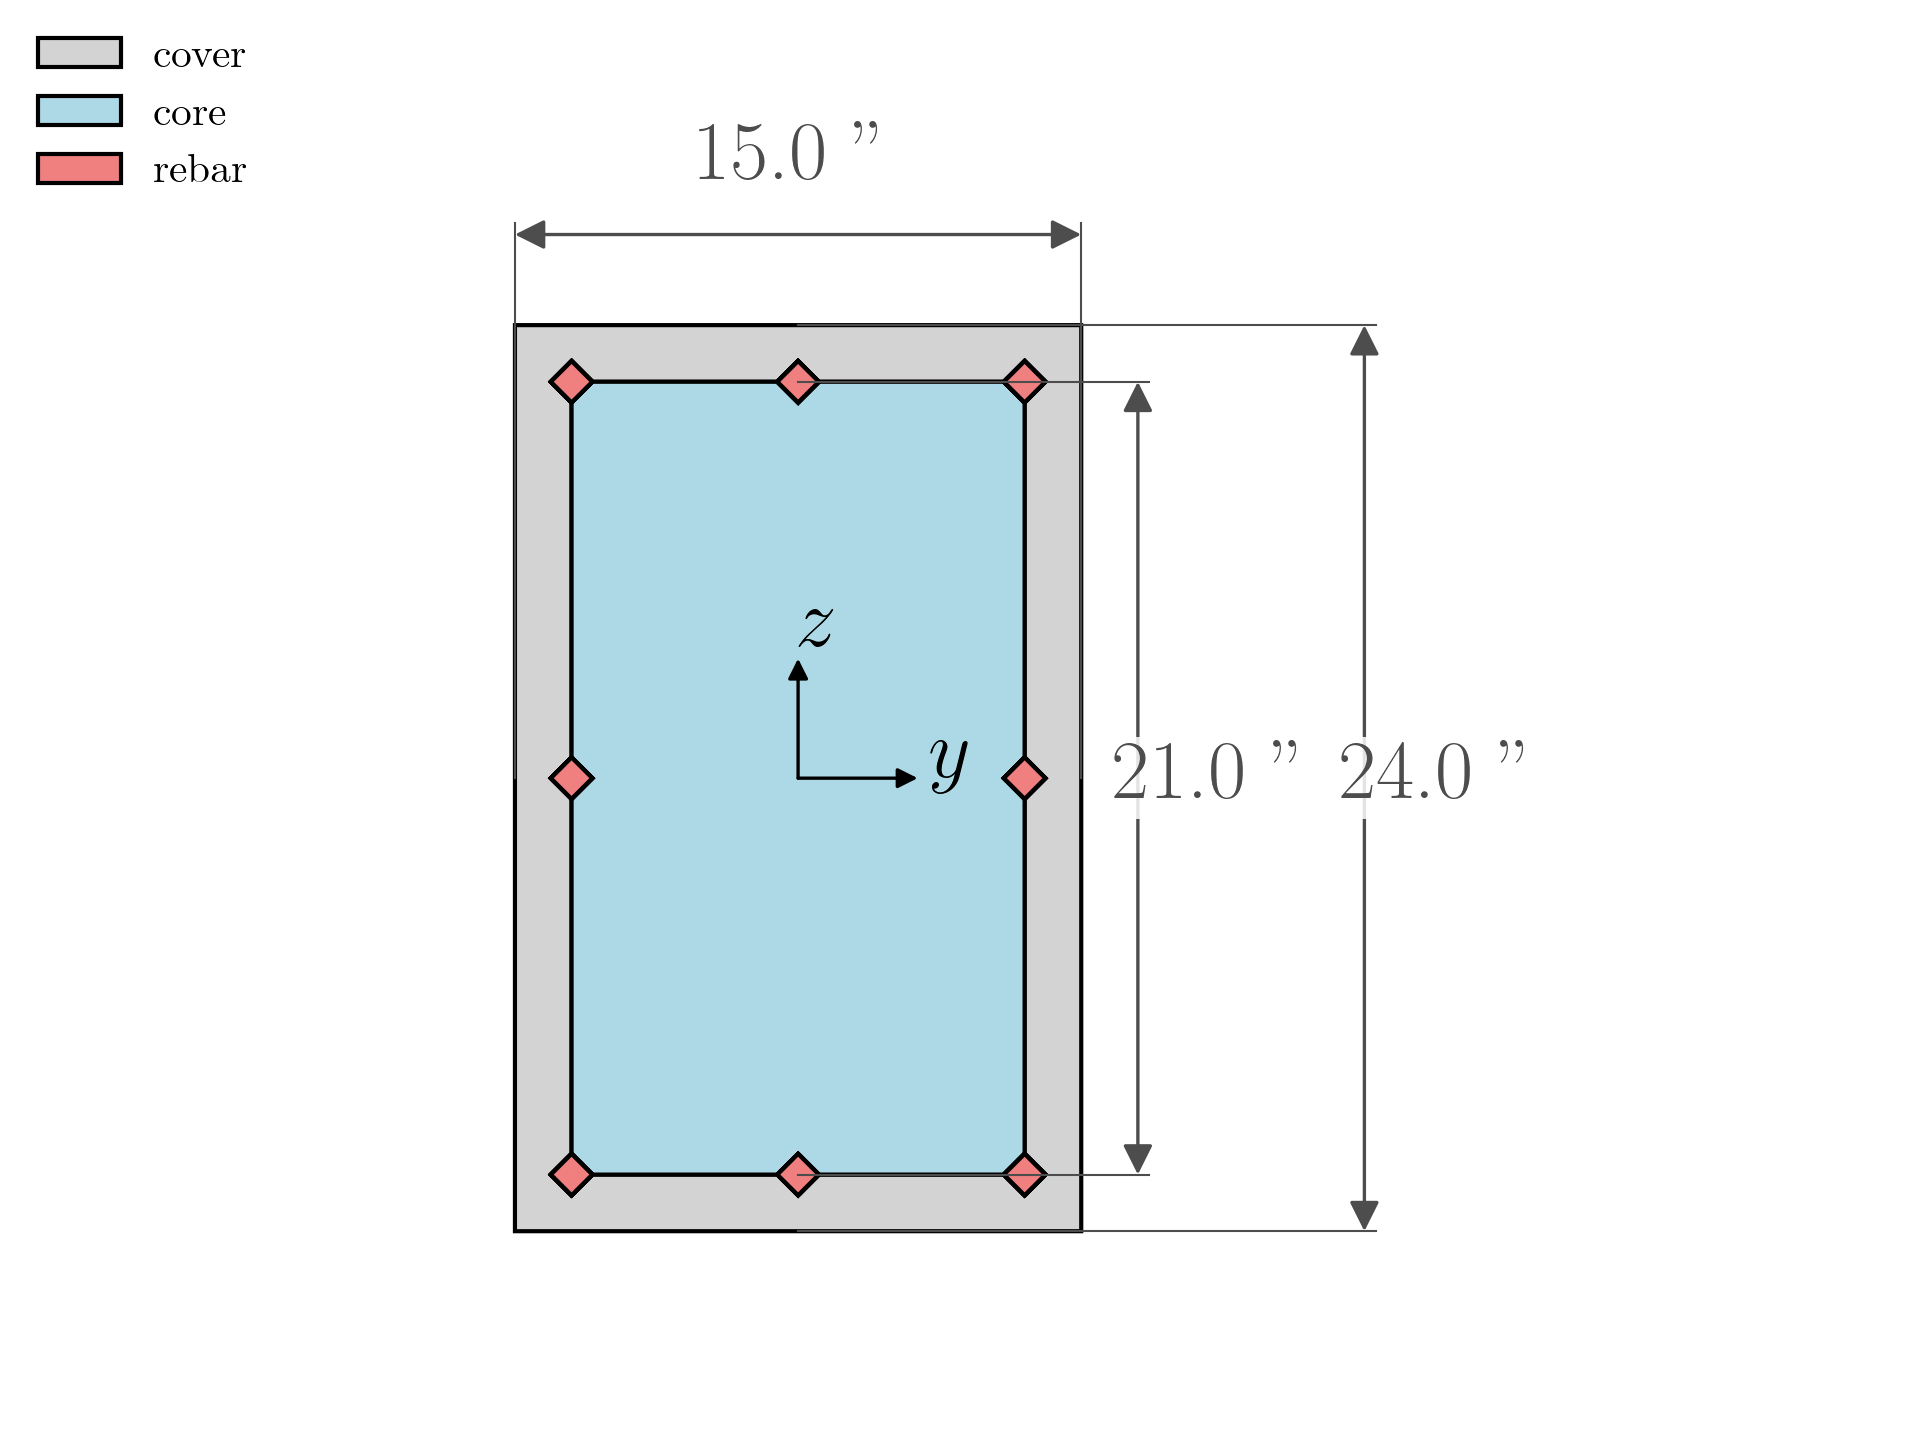
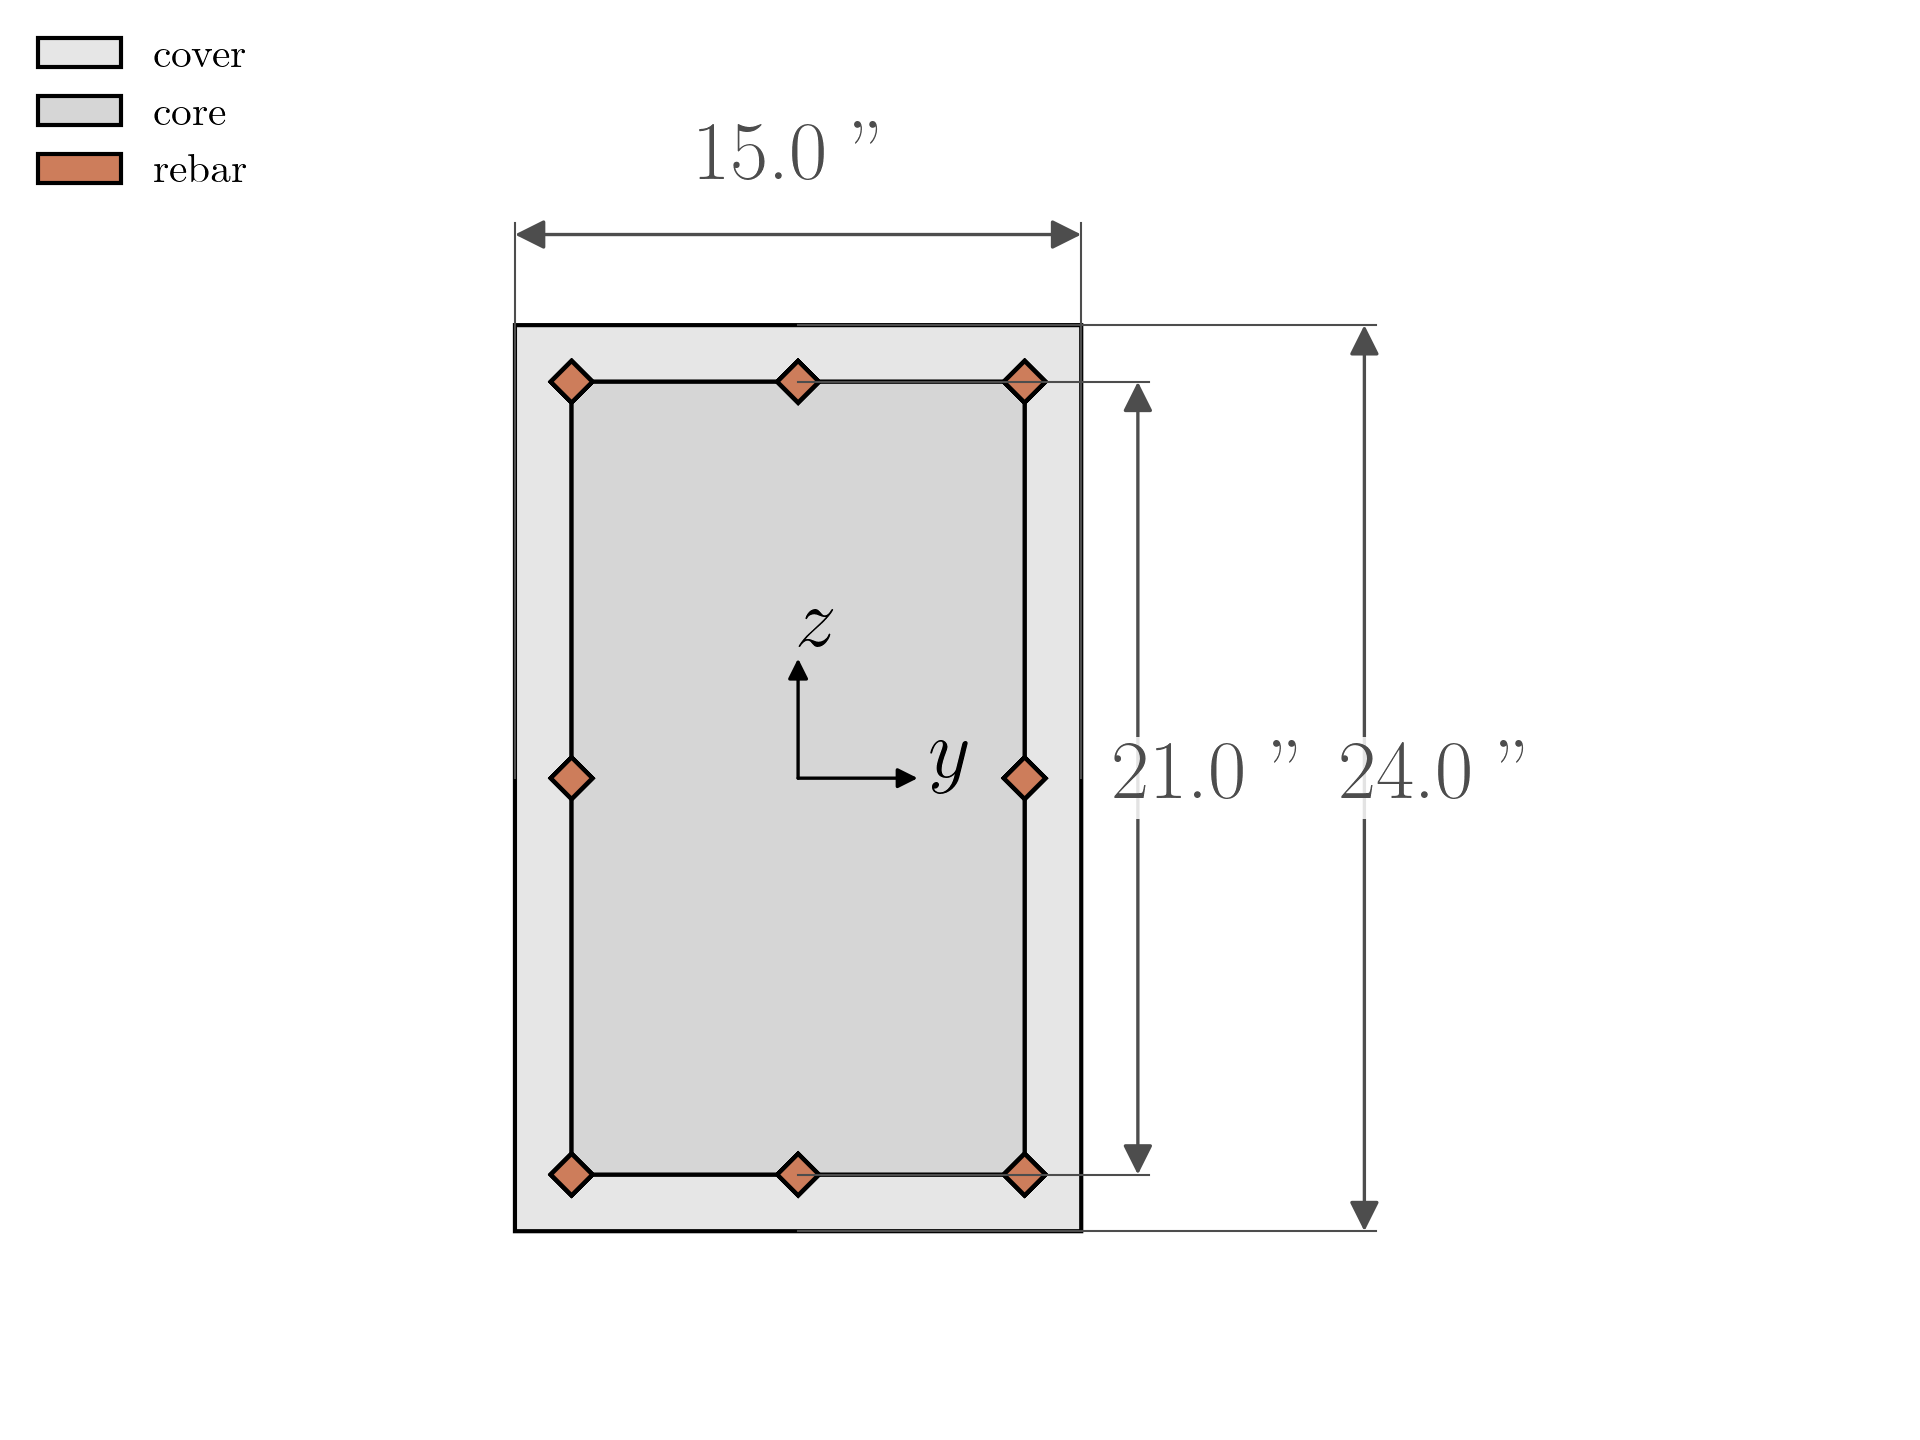
clean examples

Changed region(s): [[0.2812, 0.25, 0.5625, 0.8438], [0.0, 0.0625, 0.0625, 0.125]]

diff --git a/source/user/manual/model/geomTransf/frame/Linear.rst b/source/user/manual/model/geomTransf/frame/Linear.rst
@@ -72,37 +72,10 @@ Joint offsets are specified with respect to the global coordinate system.
 Example
 -------
 
-In the following example *Linear* transformations are defined
+.. ref-gallery::
 
-1. **Tcl Code**
+   examples/frames/frame-0059
 
-   .. code-block:: tcl
-
-	# Element 1 : tag 1 : vecxZ = zaxis
-	geomTransf Linear 1 0 0 -1
-
-	# Element 2 : tag 2 : vecxZ = y axis
-	geomTransf Linear 2 0 1 0
-
-	# If there was a rigid offset at the top of element 1:
-	geomTransf Linear 1 0 0 -1 -jntOffset 0.0 0.0 0.0 0.0 -$Offset 0.0
-
-
-2. **Python Code**
-
-   .. code-block:: python
-   
-	# Element 1, vecxZ = z-axis
-	model.geomTransf("Linear", 1, (0, 0, -1))
-
-	# Element 2, vecxZ = y-axis
-	model.geomTransf("Linear", 2, (0, 1,  0))
-
-	# If there was a rigid offset at the top of element 1: (offset is a variable that the offset value has been stored in)
-	model.geomTransf("Linear", 3, (0, 0, -1), "-jntOffset",0.0, 0.0, 0.0, 0.0, offset, 0.0)
-
-
-A detailed example including joint offsets is provided [here](https://gallery.stairlab.io/examples/frameoffsets/)
 
 References
 ----------

diff --git a/source/user/manual/model/geomTransf/frame/Corotational02.rst b/source/user/manual/model/geomTransf/frame/Corotational02.rst
@@ -50,28 +50,9 @@ The corotational coordinate transformation allows small-strain frame elements to
 Examples
 --------
 
-This example is developed in detail on the examples `site <https://gallery.stairlab.io/examples/framevecxz/>`__.
-In order to cover a wide range of cases, the strong axis of the first column, element `1`, 
-is oriented so as to resist bending *outside* the plane of the portal, but the strong axis of the second column, element `3`, will resist bending *inside* the portal plane.
+.. ref-gallery::
 
-
-.. figure:: figures/vecxz.png
-   :align: center
-   :width: 50%
-
-   A portal frame with :math:`X_3` vertical.
-
-
-.. code-block:: Python
-
-   model.node(1, (    0, 0,      0))
-   model.node(2, (width, 0,      0))
-   model.node(3, (width, 0, height))
-   model.node(4, (    0, 0, height))
-
-   model.geomTransf("Corotational", 1, (1, 0, 0)) # Column
-   model.geomTransf("Corotational", 2, (0, 0, 1)) # Girder
-   model.geomTransf("Corotational", 3, (0,-1, 0)) # Column
+   examples/frames/frame-0059
 
 
 

diff --git a/source/user/manual/material/uniaxial/hidden/ViscoelasticGap.rst b/source/user/manual/material/uniaxial/hidden/ViscoelasticGap.rst
@@ -1,7 +1,7 @@
 .. _ViscoelasticGap:
 
-Viscoelastic Gap Material
-^^^^^^^^^^^^^^^^^^^^^^^^^
+Viscoelastic Gap 
+^^^^^^^^^^^^^^^^^
 
 
 .. function:: uniaxialMaterial ViscoelasticGap  $matTag $K $c $gap
@@ -17,15 +17,17 @@ Viscoelastic Gap Material
 
 .. note::
 
-This material is implemented as a compression-only gap material, so *gap* should be input as a negative value. 
-Due to the viscous component of this material, a small tensile force is present at the end of an impact event.
+  This material is implemented as a compression-only gap material, so *gap* should be input as a negative value. 
+  Due to the viscous component of this material, a small tensile force is present at the end of an impact event.
 
 .. Description::
-This material model follows the constitutive law
 
-  .. math:: f_c(t) = k(\delta(t)-g) + c \dot{\delta} (t)
+  This material model follows the constitutive law
 
-where t is time, :math:`f_c (t)`  is the contact force, :math:`k` is the stiffness ($K), :math:`\delta(t)` is the indentation, g is the initial gap ($gap), c is the damping coefficient ($C) and :math:`\dot{\delta}(t)` is the indentation velocity.
+    .. math:: f_c(t) = k(\delta(t)-g) + c \dot{\delta} (t)
+
+  where t is time, :math:`f_c (t)`  is the contact force, :math:`k` is the stiffness ($K), :math:`\delta(t)` is the indentation, g is the initial gap ($gap), c is the damping coefficient ($C) and :math:`\dot{\delta}(t)` is the indentation velocity.
+
 
 References
 ----------

diff --git a/source/user/manual/material/damage/ASDConcrete3D.rst b/source/user/manual/material/damage/ASDConcrete3D.rst
@@ -169,6 +169,7 @@ Examples
 .. ref-gallery::
 
    examples/material/solid-0203
+   examples/material/material-0005
 
 
 Damage Surface